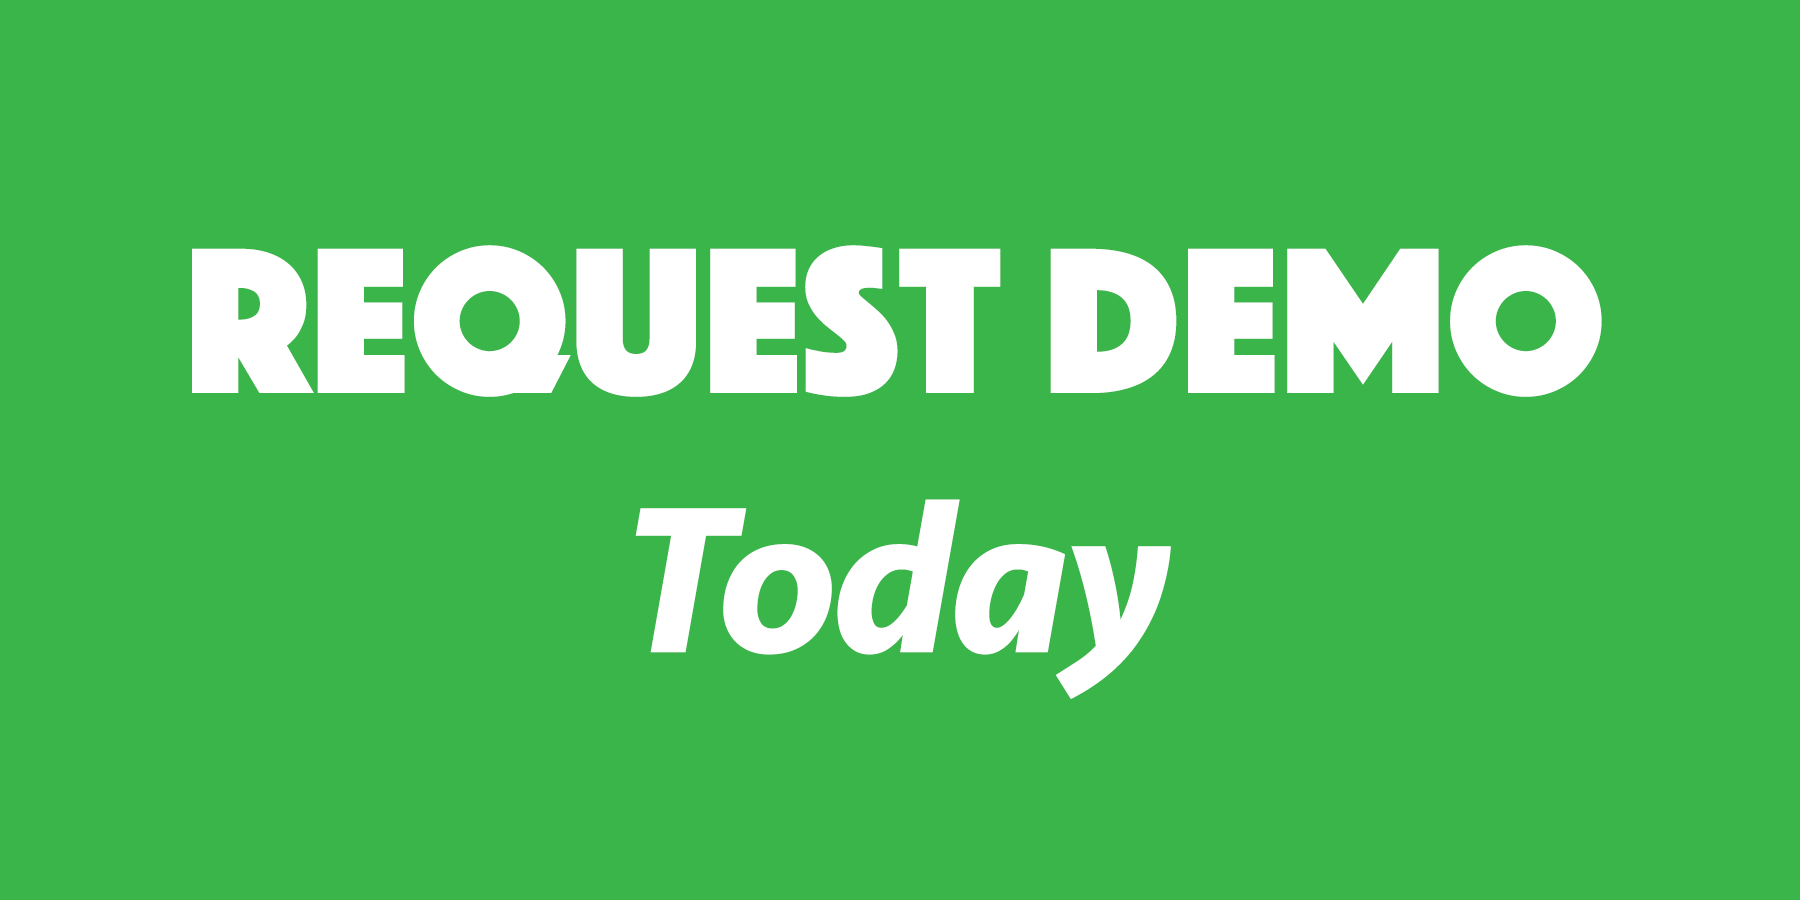
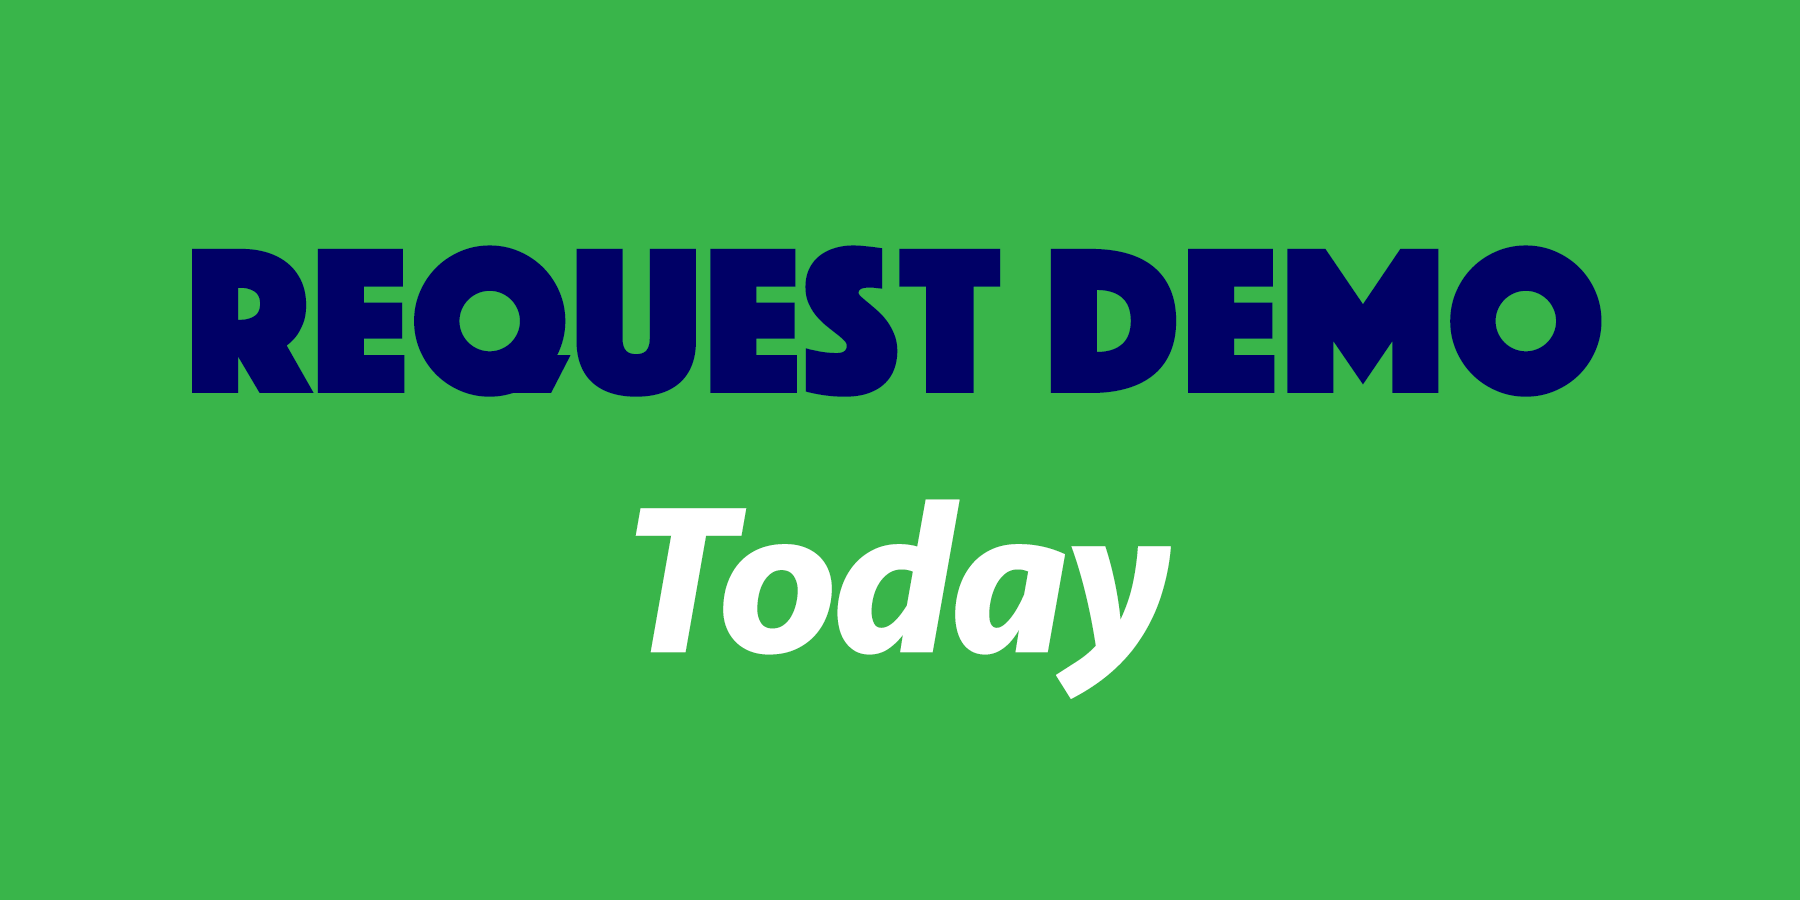
Style changes

Changed region(s): [[0.0933, 0.2489, 0.9022, 0.4667]]

diff --git a/public/css/small-business-gcv.css b/public/css/small-business-gcv.css
@@ -34,7 +34,8 @@ footer {
 /* Custom GCV additions*/
 
 h1 {
-    color: #39b54a;
+    /*color: #39b54a;*/
+    color: #150958;
     font-family: 'Alegreya SC', serif;
     font-weight: 700;
     margin-top: -5px;
@@ -58,7 +59,7 @@ a {
     background-color: #007dc5;
     font-family: 'Source Sans Pro', sans-serif;
     font-weight: 700;
-    font-size: large;
+    font-size: 25px;
     color: #FFFFFF;
     font-style: italic;
 }
